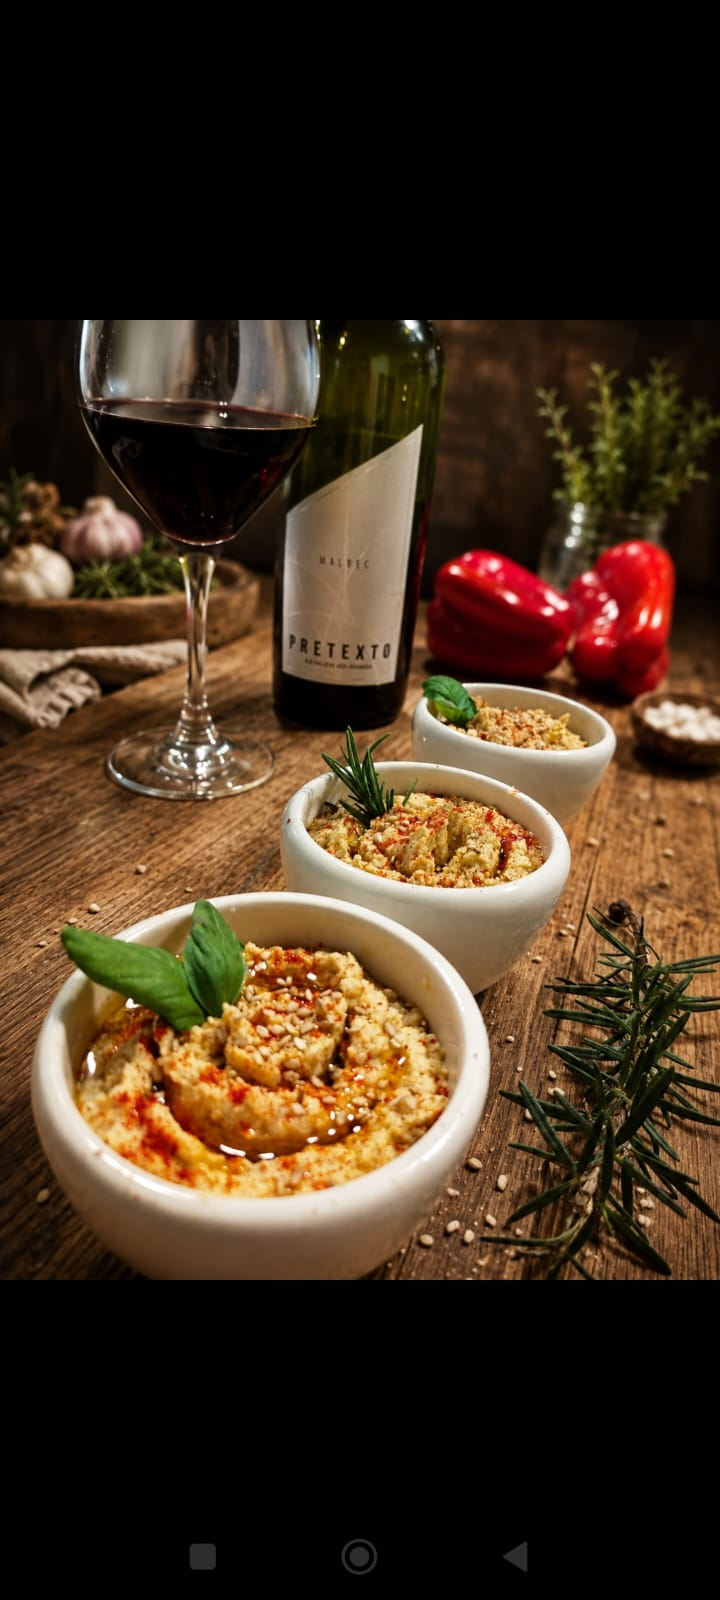
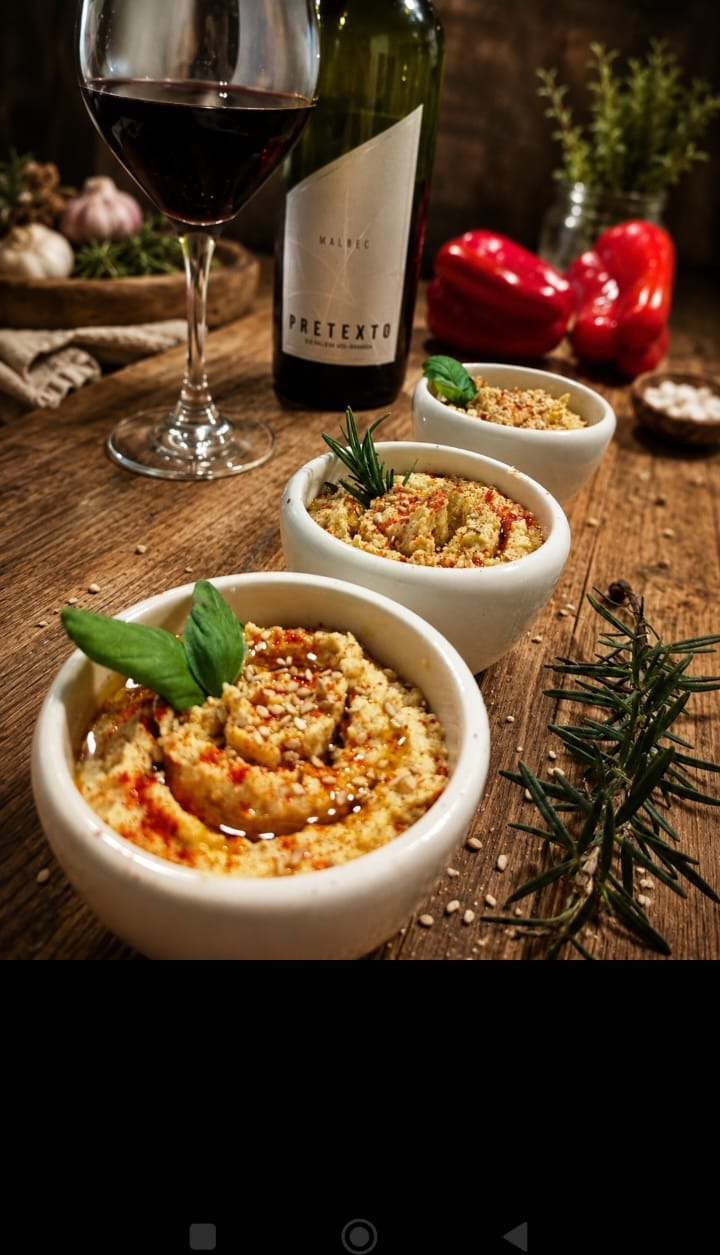
Hero: relleno difuminado (foto completa sin recorte) + titulo dorado de marca + trim barras s5

diff --git a/src/components/home/hero-section.tsx b/src/components/home/hero-section.tsx
@@ -22,7 +22,6 @@ const SLIDES = [
 const INTERVAL = 5200; // ms por imagen
 const FADE = 1.5; // s de crossfade
 const ease = [0.22, 0.8, 0.2, 1] as const;
-const KEN_BURNS = (INTERVAL + FADE * 1000) / 1000; // duración del zoom activo
 
 export function HeroSection() {
   const [index, setIndex] = useState(0);
@@ -52,21 +51,29 @@ export function HeroSection() {
               key={src}
               aria-hidden={!active}
               initial={false}
-              animate={{ opacity: active ? 1 : 0, scale: active ? 1.16 : 1.04 }}
-              transition={{
-                opacity: { duration: FADE, ease },
-                scale: { duration: active ? KEN_BURNS : 0, ease: "linear" },
-              }}
-              className="absolute inset-0 will-change-[opacity,transform] [transform:translateZ(0)]"
+              animate={{ opacity: active ? 1 : 0 }}
+              transition={{ opacity: { duration: FADE, ease } }}
+              className="absolute inset-0 will-change-[opacity] [transform:translateZ(0)]"
             >
+              {/* Fondo difuminado que llena la pantalla extendiendo la misma foto */}
+              <Image
+                src={src}
+                alt=""
+                aria-hidden
+                fill
+                quality={55}
+                sizes="100vw"
+                className="scale-110 object-cover blur-2xl brightness-[0.6]"
+              />
+              {/* Foto completa y nítida, centrada: no se recorta nada */}
               <Image
                 src={src}
                 alt="Catering elegante de Umami Bites"
                 fill
                 priority={idx < 2}
-                quality={90}
+                quality={95}
                 sizes="100vw"
-                className="object-cover"
+                className="object-contain"
               />
             </motion.div>
           );
@@ -93,7 +100,7 @@ export function HeroSection() {
         </motion.span>
 
         <h1
-          className="mt-6 max-w-3xl font-display text-5xl leading-[1.02] text-[#faf3eb] sm:text-6xl lg:text-7xl xl:text-8xl"
+          className="mt-6 max-w-3xl font-display text-5xl leading-[1.02] text-[#E7C07C] sm:text-6xl lg:text-7xl xl:text-8xl"
           style={{
             textShadow:
               "0 1px 3px rgba(0,0,0,0.9), 0 2px 12px rgba(0,0,0,0.7), 0 6px 40px rgba(0,0,0,0.5)",
@@ -115,7 +122,7 @@ export function HeroSection() {
             animate={{ opacity: 1, y: 0 }}
             transition={{ delay: 0.55, duration: 0.8, ease }}
             className="accent-serif block"
-            style={{ color: "#b5c46b" }}
+            style={{ color: "#E7C07C" }}
           >
             en tu mesa
           </motion.span>
